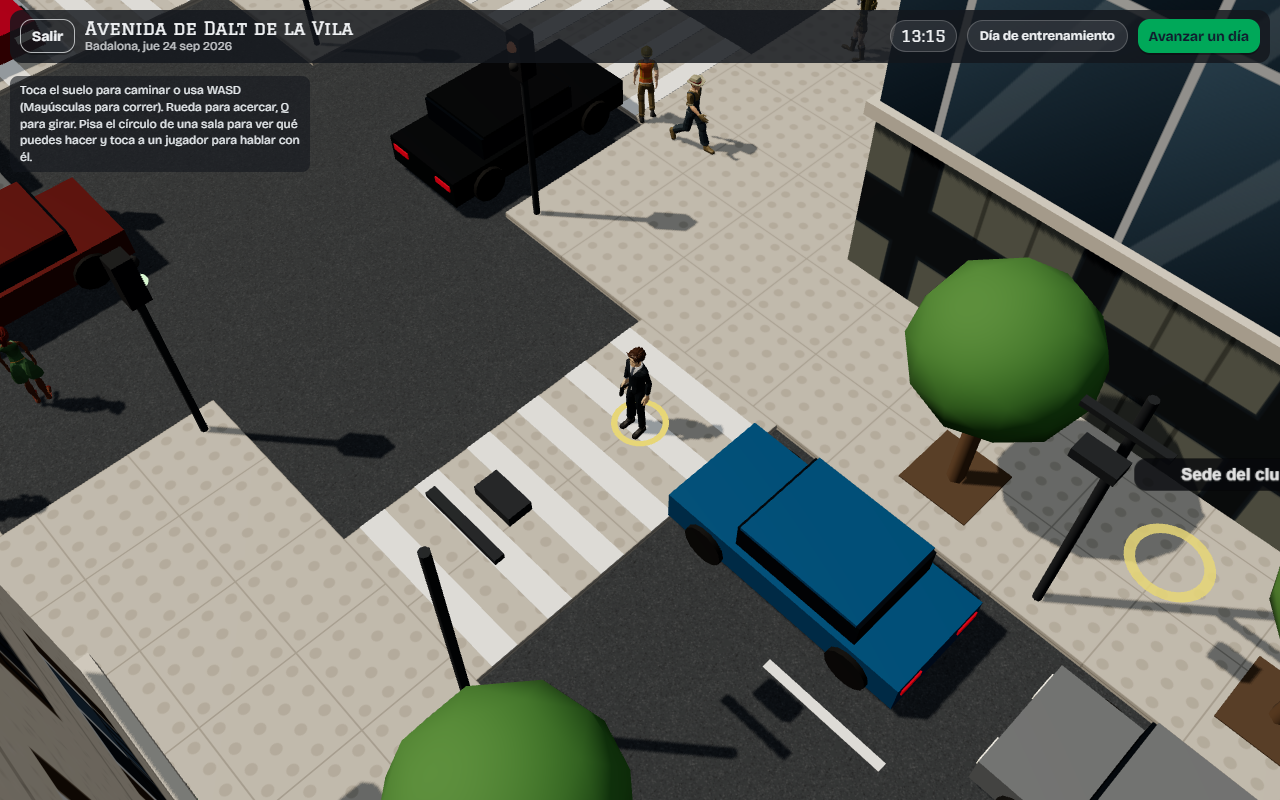
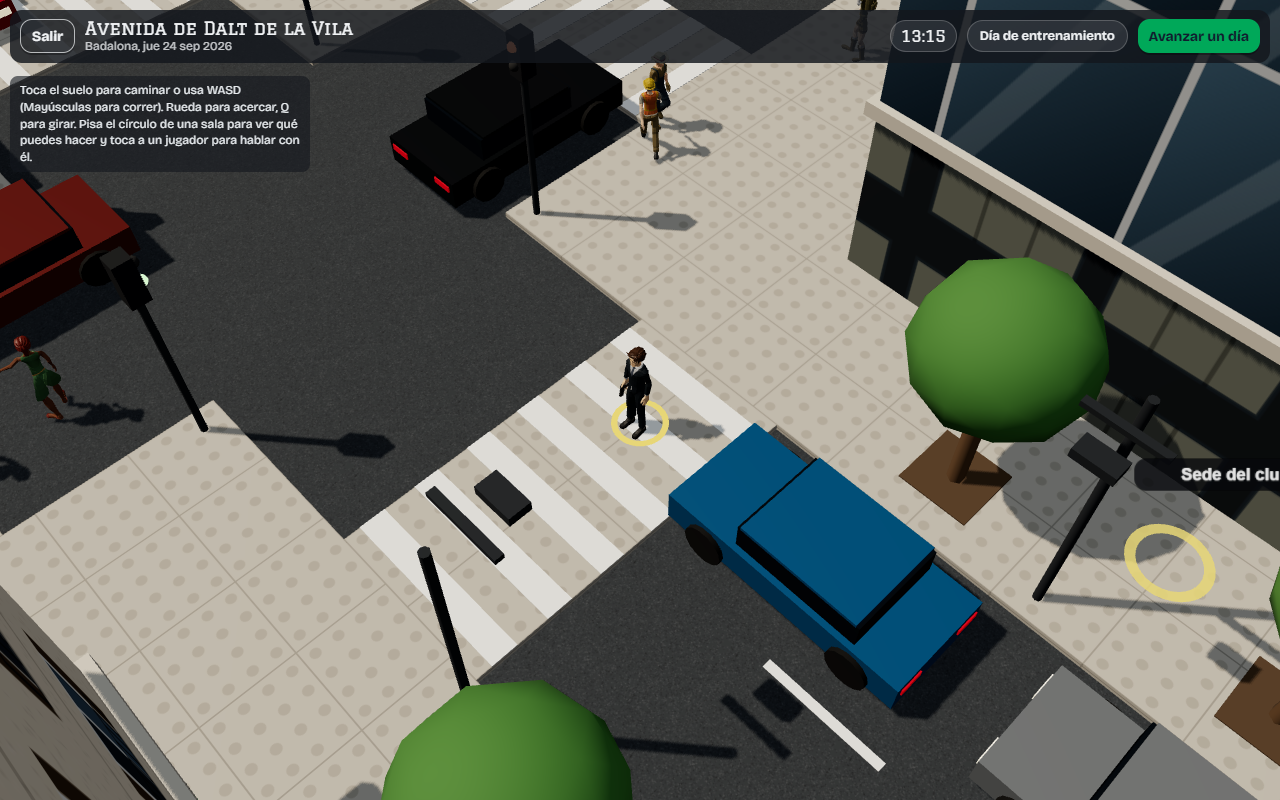
Noche con ventanas encendidas, calle que se vacía y partido en directo con personas
- Calle: de noche se encienden ventanas al azar en las fachadas, la luz de luna es más visible y
  parte de los vecinos se va a casa (vuelven por la mañana)
- Partido en directo: los cilindros pasan a ser personas reales con la camiseta de cada equipo,
  que corren, andan o esperan según su movimiento y miran hacia el aro
- En el ordenador, el partido ocupa toda la pantalla: vista grande, narración y controles al lado
- GM.sede.personaje y GM.sede.animar para reutilizar las personas en otras escenas

diff --git a/directo.js b/directo.js
@@ -36,7 +36,7 @@
     // ---- 3D ----
     if (GM.kit && GM.kit.disponible()) {
       try {
-        V = GM.kit.crear(vistaEl, { radio: 31, theta: 0.0, phi: 0.95, min: 14, max: 48, fondo: 0x10151b, sombras: false });
+        V = GM.kit.crear(vistaEl, { radio: window.innerWidth >= 900 ? 24 : 31, theta: 0.0, phi: 0.9, min: 10, max: 48, fondo: 0x10151b, sombras: false });
         const K = GM.kit, W3 = new THREE.Group(); V.scene.add(W3);
         const t = GM.campus && GM.campus.tex && GM.campus.tex('parqdir', 512, 256, (x, w, hh) => { for (let i = 0; i < 16; i++) { x.fillStyle = i % 2 ? '#c98d4f' : '#bf8346'; x.fillRect(0, i * 16, w, 16); } x.strokeStyle = '#fff'; x.lineWidth = 3; x.strokeRect(6, 6, w - 12, hh - 12); x.beginPath(); x.moveTo(w / 2, 6); x.lineTo(w / 2, hh - 6); x.stroke(); x.beginPath(); x.arc(w / 2, hh / 2, 34, 0, 6.3); x.stroke(); x.strokeRect(6, hh / 2 - 44, 100, 88); x.strokeRect(w - 106, hh / 2 - 44, 100, 88); });
         const pm = new THREE.Mesh(new THREE.BoxGeometry(2 * L, 0.2, 2 * W), t ? new THREE.MeshLambertMaterial({ map: t }) : K.mat(0xc98d4f)); pm.position.y = -0.1; W3.add(pm);
@@ -46,14 +46,21 @@
         // gradas
         for (let r = 0; r < 4; r++) { [-1, 1].forEach(s => { W3.add(K.caja(2 * L + 4, 0.6, 0.8, r % 2 ? 0x2d3a46 : 0x364654, 0, r * 0.6 - 0.3, s * (W + 1.6 + r * 0.9))); }); }
         jug = { A: [], B: [] };
-        ['A', 'B'].forEach(k => { const cid = k === 'A' ? g.local : g.visitante, c = col(cid); for (let i = 0; i < 5; i++) { const gr = new THREE.Group(); gr.add(K.cilindro(0.34, 1.35, c, 0, 0.2, 0, 10)); gr.add(new THREE.Mesh(new THREE.SphereGeometry(0.3, 10, 8), K.mat(0xe4b88f))); gr.children[1].position.y = 1.85; gr.position.set(0, 0, 0); W3.add(gr); jug[k].push({ g: gr, x: 0, z: 0, tx: 0, tz: 0 }); } });
+        ['A', 'B'].forEach(k => { const cid = k === 'A' ? g.local : g.visitante, c = col(cid); for (let i = 0; i < 5; i++) { const gr = new THREE.Group(); gr.add(K.cilindro(0.34, 1.35, c, 0, 0.2, 0, 10)); gr.add(new THREE.Mesh(new THREE.SphereGeometry(0.3, 10, 8), K.mat(0xe4b88f))); gr.children[1].position.y = 1.85; gr.position.set(0, 0, 0); W3.add(gr); jug[k].push({ g: gr, x: 0, z: 0, tx: 0, tz: 0, k, i }); } });
+        // Personas de verdad (Quaternius) con la camiseta de cada equipo; los cilindros quedan si no cargan
+        if (GM.sede && GM.sede.personaje) ['A', 'B'].forEach(k => { const e = st.equipos[k === 'A' ? g.local : g.visitante], c1 = e.colores[0], c2 = e.colores[1] || '#222'; jug[k].forEach((o, i) => {
+          const hsh = U.hash(e.id + i); GM.sede.personaje({ modelo: ['h-casual_hoodie', 'h-casual_2', 'h-beach'][hsh % 3], altura: 196 + hsh % 14, piel: ['#f1c7a5', '#c68863', '#9a6142', '#6e4329', '#e0ac85'][(hsh >>> 3) % 5], pelo: ['#1d1510', '#3b2617', '#a9793e'][(hsh >>> 6) % 3], ropa: [c1, c2] }).then(p => {
+            if (!V) return; o.g.children.forEach(ch => { ch.visible = false; }); p.obj.scale.multiplyScalar(1.15); o.g.add(p.obj); o.p = p; GM.sede.animar(p, 'idle'); }).catch(() => {}); }); });
+        V.scene.add(new THREE.HemisphereLight(0xffffff, 0x444444, 0.6));
         balon = new THREE.Mesh(new THREE.SphereGeometry(0.25, 12, 10), K.mat(0xe3622b)); balon.position.set(0, 1, 0); W3.add(balon);
         ES.bx = 0; ES.bz = 0; ES.by = 1;
         // posiciones iniciales
         ['A', 'B'].forEach((k, ki) => jug[k].forEach((o, i) => { const f = formacion(k === 'A', i); o.x = o.tx = (k === 'A' ? -1 : 1) * 4 + (ki ? 1 : -1) * (i * 0.8); o.z = o.tz = (i - 2) * 2; }));
         V.anim = function (tm) {
           const dt = 0.033;
-          ['A', 'B'].forEach(k => jug[k].forEach(o => { o.x += (o.tx - o.x) * 0.12; o.z += (o.tz - o.z) * 0.12; o.g.position.set(o.x, 0, o.z); o.g.rotation.y = Math.atan2(HX * (o.tx > 0 ? 1 : -1) - o.x, -o.z) * 0; }));
+          ['A', 'B'].forEach(k => jug[k].forEach(o => { const dx = (o.tx - o.x) * 0.12, dz = (o.tz - o.z) * 0.12; o.x += dx; o.z += dz; o.g.position.set(o.x, 0, o.z); const v = Math.hypot(dx, dz) / dt;
+            if (o.p) { if (v > 0.25) { let a = Math.atan2(dx, dz) - o.g.rotation.y; while (a > Math.PI) a -= 2 * Math.PI; while (a < -Math.PI) a += 2 * Math.PI; o.g.rotation.y += a * 0.25; } else { const hx = (ES.ataca === k ? 1 : -1) * (k === 'A' ? 1 : -1) * HX; o.g.rotation.y += (Math.atan2(hx - o.x, -o.z) - o.g.rotation.y) * 0.08; }
+              GM.sede.animar(o.p, v > 2.5 ? 'sprint' : v > 0.4 ? 'walk' : 'idle'); o.p.mixer.update(dt); } }));
           const a = ES.anim, ahora = performance.now() / 1000;
           if (a) {
             let u = (ahora - a.t0) / a.dur; if (ES.pausa) { a.t0 += dt; u = (ahora - a.t0) / a.dur; }
@@ -75,7 +82,7 @@
       const k = ev.eq, otro = k === 'A' ? 'B' : 'A', dir = k === 'A' ? 1 : -1;
       ids.A = ev.pista[0]; ids.B = ev.pista[1];
       const nj = nombre(ev.jug), txt = e => e.replace('{j}', nj);
-      if (V) colocar(k, ev);
+      ES.ataca = k; if (V) colocar(k, ev);
       let frase = '', cls = '';
       if (ev.r === 'ok') { frase = txt(pick(ev.v === 3 ? FRASES.ok3 : FRASES.ok2)) + (ev.ast ? ' (' + FRASES.ast[0].replace('{j}', nombre(ev.ast)) + ')' : '') + '.'; cls = k === lado ? 'bien' : ''; }
       else if (ev.r === 'fallo') frase = txt(pick(ev.v === 3 ? FRASES.fallo3 : FRASES.fallo2)) + (ev.tap ? ' ' + FRASES.tap[0].replace('{j}', nombre(ev.tap)) : '') + (ev.reb ? ' ' + FRASES.reb[0].replace('{j}', nombre(ev.reb)) + '.' : ev.oreb ? ' Rebote ofensivo de ' + nombre(ev.oreb) + '.' : '');

diff --git a/calle3d.js b/calle3d.js
@@ -43,6 +43,8 @@
       if (E.balcon) { x.strokeStyle = '#2a2a2a'; x.lineWidth = 2; x.strokeRect(wx - 8, wy + wh * 0.62, ww + 16, wh * 0.38); for (let i = 0; i <= 8; i++) { x.beginPath(); x.moveTo(wx - 8 + i * (ww + 16) / 8, wy + wh * 0.62); x.lineTo(wx - 8 + i * (ww + 16) / 8, wy + wh); x.stroke(); } }
     }, null);
     t.fachadas = E.muros.map((m, i) => fach(m, i));
+    t.ventanas = M.textura('ventanas-noche', 512, (x, n) => { x.fillStyle = '#000'; x.fillRect(0, 0, n, n); const r = rnd(41), b = n / 4; for (let i = 0; i < 4; i++) for (let j = 0; j < 4; j++) { if (r() < 0.45) continue; const ox = i * b, oy = j * b; x.fillStyle = r() < 0.7 ? '#ffd28a' : '#cfe3ff'; x.fillRect(ox + b * 0.3, oy + b * 0.18, b * 0.4, b * 0.55); } });
+    if (t.ventanas) t.ventanas.repeat.set(0.25, 0.25);
     t.cristal = M.textura('muro-cristal', 128, (x, n) => { const g = x.createLinearGradient(0, 0, n, n); g.addColorStop(0, '#5f7f96'); g.addColorStop(1, '#2c3f50'); x.fillStyle = g; x.fillRect(0, 0, n, n); x.fillStyle = '#d9dee2'; x.fillRect(0, 0, n, 5); x.fillRect(0, 0, 5, n); x.fillStyle = 'rgba(255,255,255,.18)'; x.beginPath(); x.moveTo(10, n); x.lineTo(n * 0.6, 0); x.lineTo(n * 0.75, 0); x.lineTo(30, n); x.fill(); });
     t.tienda = (fondo, clave) => M.textura('escap-' + clave, 128, (x, n) => { x.fillStyle = fondo; x.fillRect(0, 0, n, n); x.fillStyle = '#26323b'; x.fillRect(n * 0.08, n * 0.2, n * 0.84, n * 0.72); x.fillStyle = 'rgba(255,240,200,.35)'; x.fillRect(n * 0.1, n * 0.22, n * 0.8, n * 0.68); x.fillStyle = 'rgba(0,0,0,.25)'; for (let i = 1; i < 3; i++) x.fillRect(n * 0.08 + i * n * 0.28, n * 0.2, 3, n * 0.72); });
     t.persiana = M.textura('persiana-metal', 128, (x, n) => { x.fillStyle = '#8b9196'; x.fillRect(0, 0, n, n); for (let i = 0; i < 16; i++) { x.fillStyle = i % 2 ? '#7a8085' : '#9aa0a5'; x.fillRect(0, i * n / 16, n, n / 16); } x.fillStyle = 'rgba(40,40,40,.5)'; x.font = 'bold 26px sans-serif'; x.fillText(club.siglas, 20, n / 2); });
@@ -62,7 +64,8 @@
   function edificio(W, G, T, E, r, rect, pisos, lado, o) {
     o = o || {};
     const [x0, z0, x1, z1] = rect, w = x1 - x0, d = z1 - z0, cx = (x0 + x1) / 2, cz = (z0 + z1) / 2, hB = 3.4, hP = 3.2;
-    const fach = o.cristal ? new THREE.MeshStandardMaterial({ map: T.cristal, roughness: 0.25, metalness: 0.3 }) : new THREE.MeshStandardMaterial({ map: T.fachadas[(r() * T.fachadas.length) | 0], roughness: 0.9 });
+    const fach = o.cristal ? new THREE.MeshStandardMaterial({ map: T.cristal, roughness: 0.25, metalness: 0.3, emissive: 0xbfd8ff, emissiveIntensity: 0 }) : new THREE.MeshStandardMaterial({ map: T.fachadas[(r() * T.fachadas.length) | 0], roughness: 0.9, emissive: 0xffd28a, emissiveMap: T.ventanas || null, emissiveIntensity: 0 });
+    (S_.ventanas = S_.ventanas || []).push(fach);
     const cuerpo = new THREE.BoxGeometry(w, pisos * hP, d); uvM(cuerpo, 3, hP); cuerpo.translate(0, hB + pisos * hP / 2, 0);
     const me = new THREE.Mesh(cuerpo, fach); me.position.set(cx, 0, cz); me.castShadow = me.receiveShadow = true; W.add(me); ocluye(me);
     // Planta baja con escaparates (o persianas metálicas)
@@ -98,7 +101,9 @@
   }
 
   // ---------- Construcción ----------
+  let S_ = null;
   function construir(S, M, st) {
+    S_ = S; S.ventanas = [];
     const W = S.mundo, club = st.equipos[st.clubId], E = Object.assign({}, ESTILO.ES, ESTILO[club.pais] || {}), T = texturas(M, E, club), r = rnd(U.hash(club.id + 'calle'));
     const c1 = club.colores[0] === '#000000' ? '#222222' : club.colores[0], c2 = club.colores[1] || '#ffffff';
     const ciu = (st.ciudad && st.ciudad[st.clubId]) || { aficion: 50 }, rep = club.reputacion || 60, afi = ciu.aficion || 50;
@@ -239,6 +244,9 @@
     g.position.y = -0.12; g.userData = { coche: true }; return g;
   }
   function siguiente(S, M, n) {
+    // De noche la calle se vacía: parte de los vecinos se van a casa (desaparecen al llegar a un portal)
+    if (S.noche > 0.4 && !n.hincha && !n.recogido && n.r() < 0.5) { const port = [[-31.5, 5.2], [35, -5.2], [-35, -5.2], [30, 5.2]][(n.r() * 4) | 0]; n.recogido = true; if (M.irA(n, port[0], port[1], () => { n.obj.visible = false; n.espera = 9999; })) return; }
+    if (n.recogido && S.noche < 0.2) { n.recogido = false; n.obj.visible = true; }
     const q = S.paseo[(n.r() * S.paseo.length) | 0];
     if (S.dia && S.dia.tipo === 'partido' && n.hincha && n.r() < 0.6) { const ok = M.irA(n, -19.5 + (n.r() - 0.5) * 8, -5.4 + (n.r() - 0.5) * 1.2, () => { M.anim(n, 'emote-yes'); n.espera = 6 + n.r() * 8; }); if (ok) return; }
     const ok = M.irA(n, q[0] + (n.r() - 0.5) * 0.8, q[1] + (n.r() - 0.5) * 0.5, () => { M.anim(n, n.r() < 0.15 ? 'emote-yes' : 'idle'); n.espera = 1 + n.r() * 6; });

diff --git a/sede3d.js b/sede3d.js
@@ -572,14 +572,15 @@
     if (!S.luces || !S.dia) return;
     const h = S.hora || 9, tarde = Math.max(0, Math.min(1, (h - 17.5) / 2.5)), noche = Math.max(0, Math.min(1, (h - 19.5) / 1.5)), triste = S.dia.tipo === 'derrota' ? 0.72 : S.dia.tipo === 'victoria' ? 1.08 : 1;
     S.noche = noche;
-    S.luces.sol.intensity = (2.6 * (1 - noche) + 0.35 * noche) * triste;
+    S.luces.sol.intensity = (2.6 * (1 - noche) + 0.7 * noche) * triste;
     S.luces.sol.color.setHex(noche > 0 ? mezcla(0xffa060, 0x8fa6d6, noche) : mezcla(S.dia.tipo === 'derrota' ? 0xd9e2f0 : 0xfff1dc, 0xffa060, tarde));
-    S.luces.cielo.intensity = (1.1 * (1 - noche) + 0.45 * noche) * triste;
+    S.luces.cielo.intensity = (1.1 * (1 - noche) + 0.75 * noche) * triste;
     S.luces.cielo.color.setHex(mezcla(0xdfe8f2, 0x5a6c9a, noche));
     if (S.escena === 'calle') { const f = noche > 0 ? mezcla(0xf0a46a, 0x101a2e, noche) : mezcla(0xa9c6dc, 0xf0a46a, tarde); S.scene.background = new THREE.Color(f); if (S.scene.fog) S.scene.fog.color.setHex(f); }
     else S.scene.background = new THREE.Color(noche > 0 ? mezcla(0xf0a46a, 0x101a2e, noche) : mezcla(0x9fb8c8, 0xf0a46a, tarde));
     if (S.farolas) { S.farolas.emissiveIntensity = 0.4 + noche * 3.5; }
     if (S.charcosNoche) S.charcosNoche.opacity = noche * 0.9;
+    if (S.ventanas) S.ventanas.forEach(m => { m.emissiveIntensity = (m.emissiveMap ? 1.3 : 0.25) * Math.max(0, Math.min(1, (h - 19) / 1.5)); });
     if (S.chipHora) { const hh = Math.floor(h), mm = Math.floor((h - hh) * 60 / 15) * 15; S.chipHora.textContent = hh + ':' + String(mm).padStart(2, '0'); }
   }
 
@@ -802,5 +803,5 @@
     S.scene.traverse(n => { if (n.geometry) n.geometry.dispose(); }); S.renderer.dispose(); S.raiz.remove(); if (S.volverBtn) S.volverBtn.remove(); S = null;
     if (GM.ui.refrescar) GM.ui.refrescar();
   }
-  GM.sede = { abrir, cerrar, volver, activa: () => !!S, _estado: () => S, _anim: (p, n) => anim(p, n), _tiro: n => empezarTiro(n), _grupo: () => { S.tGrupo = 0; }, _escena: d => cambiarEscena(d), _personaje: o => personaje(o), aEstrella, rejilla };
+  GM.sede = { personaje: o => personaje(o), animar: (p, n) => anim(p, n), abrir, cerrar, volver, activa: () => !!S, _estado: () => S, _anim: (p, n) => anim(p, n), _tiro: n => empezarTiro(n), _grupo: () => { S.tGrupo = 0; }, _escena: d => cambiarEscena(d), _personaje: o => personaje(o), aEstrella, rejilla };
 })();

diff --git a/estilos.css b/estilos.css
@@ -371,3 +371,14 @@ body{background:var(--bg)}
 .sede-dia-nuevo{display:flex;flex-direction:column;align-items:center;justify-content:center;gap:8px;color:#fff;text-align:center}
 .sede-dia-nuevo b{font:400 clamp(30px,5vw,52px) var(--fd);animation:spEntra .4s ease-out}
 .sede-dia-nuevo span{font-size:16px;opacity:.8}
+/* Partido en directo en el ordenador: pantalla completa, vista grande y narración al lado */
+@media (min-width:900px){
+  .directo{max-width:none;display:grid;grid-template-columns:1fr 380px;grid-template-rows:auto 1fr auto;overflow:hidden}
+  .directo .dir-marcador{grid-column:1/-1}
+  .directo .dir-vista{grid-column:1;grid-row:2/4;height:auto;min-height:0}
+  .directo .dir-ticker{grid-column:2;grid-row:2;overflow-y:auto;padding:14px 16px;border-left:1px solid rgba(255,255,255,.08)}
+  .directo .dir-ctrl{grid-column:2;grid-row:3;border-left:1px solid rgba(255,255,255,.08)}
+  .directo .dir-ctrl .seg.compacto{flex-wrap:wrap}
+  .directo .dir-panel{position:absolute;right:390px;bottom:16px;max-width:420px}
+  .directo .dir-panel:empty{display:none}
+}
